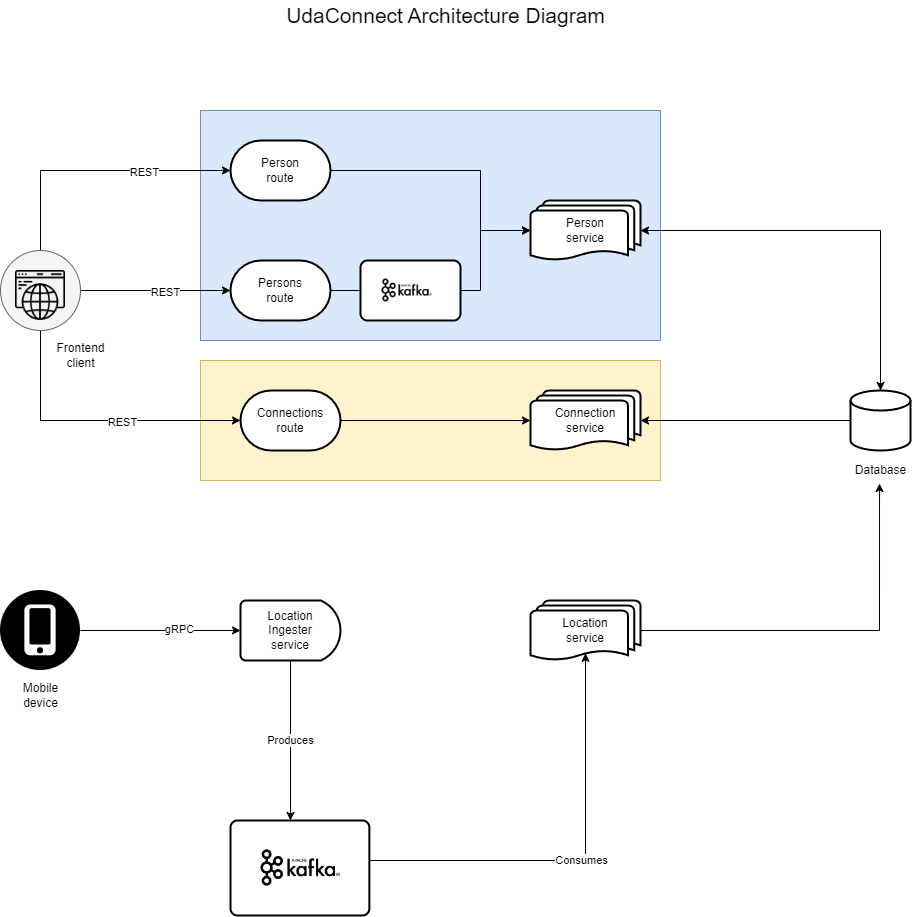
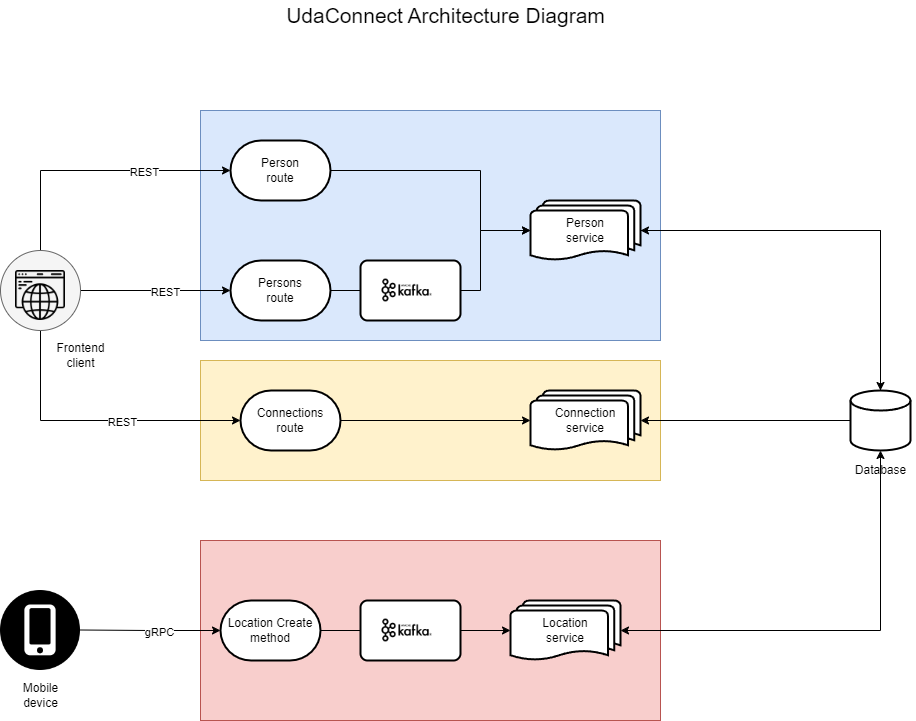
Project is ready for submitted.

diff --git a/modules/locations_api/location_pb2_grpc.py b/modules/locations_api/location_pb2_grpc.py
@@ -19,23 +19,12 @@ class LocationServiceStub(object):
                 request_serializer=location__pb2.LocationMessage.SerializeToString,
                 response_deserializer=location__pb2.LocationMessage.FromString,
                 )
-        self.Get = channel.unary_unary(
-                '/LocationService/Get',
-                request_serializer=location__pb2.Empty.SerializeToString,
-                response_deserializer=location__pb2.LocationMessageList.FromString,
-                )
 
 
 class LocationServiceServicer(object):
     """Missing associated documentation comment in .proto file."""
 
     def Create(self, request, context):
-        """Missing associated documentation comment in .proto file."""
-        context.set_code(grpc.StatusCode.UNIMPLEMENTED)
-        context.set_details('Method not implemented!')
-        raise NotImplementedError('Method not implemented!')
-
-    def Get(self, request, context):
         """Missing associated documentation comment in .proto file."""
         context.set_code(grpc.StatusCode.UNIMPLEMENTED)
         context.set_details('Method not implemented!')
@@ -48,11 +37,6 @@ def add_LocationServiceServicer_to_server(servicer, server):
                     servicer.Create,
                     request_deserializer=location__pb2.LocationMessage.FromString,
                     response_serializer=location__pb2.LocationMessage.SerializeToString,
-            ),
-            'Get': grpc.unary_unary_rpc_method_handler(
-                    servicer.Get,
-                    request_deserializer=location__pb2.Empty.FromString,
-                    response_serializer=location__pb2.LocationMessageList.SerializeToString,
             ),
     }
     generic_handler = grpc.method_handlers_generic_handler(
@@ -78,22 +62,5 @@ class LocationService(object):
         return grpc.experimental.unary_unary(request, target, '/LocationService/Create',
             location__pb2.LocationMessage.SerializeToString,
             location__pb2.LocationMessage.FromString,
-            options, channel_credentials,
-            insecure, call_credentials, compression, wait_for_ready, timeout, metadata)
-
-    @staticmethod
-    def Get(request,
-            target,
-            options=(),
-            channel_credentials=None,
-            call_credentials=None,
-            insecure=False,
-            compression=None,
-            wait_for_ready=None,
-            timeout=None,
-            metadata=None):
-        return grpc.experimental.unary_unary(request, target, '/LocationService/Get',
-            location__pb2.Empty.SerializeToString,
-            location__pb2.LocationMessageList.FromString,
             options, channel_credentials,
             insecure, call_credentials, compression, wait_for_ready, timeout, metadata)

diff --git a/modules/locations_api/location_pb2.py b/modules/locations_api/location_pb2.py
@@ -13,19 +13,17 @@ _sym_db = _symbol_database.Default()
 
 
 
-DESCRIPTOR = _descriptor_pool.Default().AddSerializedFile(b'\n\x0elocation.proto\"\x07\n\x05\x45mpty\"I\n\x0fLocationMessage\x12\x11\n\tperson_id\x18\x01 \x01(\x05\x12\x10\n\x08latitude\x18\x02 \x01(\x01\x12\x11\n\tlongitude\x18\x03 \x01(\x01\":\n\x13LocationMessageList\x12#\n\tlocations\x18\x01 \x03(\x0b\x32\x10.LocationMessage2d\n\x0fLocationService\x12,\n\x06\x43reate\x12\x10.LocationMessage\x1a\x10.LocationMessage\x12#\n\x03Get\x12\x06.Empty\x1a\x14.LocationMessageListb\x06proto3')
+DESCRIPTOR = _descriptor_pool.Default().AddSerializedFile(b'\n\x0elocation.proto\"I\n\x0fLocationMessage\x12\x11\n\tperson_id\x18\x01 \x01(\x05\x12\x10\n\x08latitude\x18\x02 \x01(\t\x12\x11\n\tlongitude\x18\x03 \x01(\t\":\n\x13LocationMessageList\x12#\n\tlocations\x18\x01 \x03(\x0b\x32\x10.LocationMessage2?\n\x0fLocationService\x12,\n\x06\x43reate\x12\x10.LocationMessage\x1a\x10.LocationMessageb\x06proto3')
 
 _builder.BuildMessageAndEnumDescriptors(DESCRIPTOR, globals())
 _builder.BuildTopDescriptorsAndMessages(DESCRIPTOR, 'location_pb2', globals())
 if _descriptor._USE_C_DESCRIPTORS == False:
 
   DESCRIPTOR._options = None
-  _EMPTY._serialized_start=18
-  _EMPTY._serialized_end=25
-  _LOCATIONMESSAGE._serialized_start=27
-  _LOCATIONMESSAGE._serialized_end=100
-  _LOCATIONMESSAGELIST._serialized_start=102
-  _LOCATIONMESSAGELIST._serialized_end=160
-  _LOCATIONSERVICE._serialized_start=162
-  _LOCATIONSERVICE._serialized_end=262
+  _LOCATIONMESSAGE._serialized_start=18
+  _LOCATIONMESSAGE._serialized_end=91
+  _LOCATIONMESSAGELIST._serialized_start=93
+  _LOCATIONMESSAGELIST._serialized_end=151
+  _LOCATIONSERVICE._serialized_start=153
+  _LOCATIONSERVICE._serialized_end=216
 # @@protoc_insertion_point(module_scope)

diff --git a/modules/locations_api/app/udaconnect/services.py b/modules/locations_api/app/udaconnect/services.py
@@ -36,7 +36,6 @@ class LocationService:
         new_location.person_id = location["person_id"]
         new_location.coordinate = ST_Point(
             location["latitude"], location["longitude"])
-        new_location.creation_time = datetime.now().strftime("%Y-%m-%d %H:%M:%S")
         db.session.add(new_location)
         db.session.commit()
 

diff --git a/modules/locations_api/main.py b/modules/locations_api/main.py
@@ -14,9 +14,6 @@ KAFKA_SERVER = 'kafka-service:9092'
 
 
 class LocationServicer(location_pb2_grpc.LocationServiceServicer):
-    def Get(self, request, context):
-        return
-
     def Create(self, request, context):
         from app.udaconnect.services import LocationService
         location = {

diff --git a/modules/locations_api/app/udaconnect/schemas.py b/modules/locations_api/app/udaconnect/schemas.py
@@ -7,7 +7,6 @@ class LocationSchema(Schema):
     person_id = fields.Integer()
     longitude = fields.String(attribute="longitude")
     latitude = fields.String(attribute="latitude")
-    creation_time = fields.DateTime()
 
     class Meta:
         model = Location

diff --git a/README.md b/README.md
@@ -88,7 +88,7 @@ Afterwards, you can test that `kubectl` works by running a command like `kubectl
 10. `sh scripts/run_db_command.sh <POD_NAME>` - Seed your database against the `postgres` pod. (`kubectl get pods` will give you the `POD_NAME`)
 11. Create the kafka topics as follows
 ```
-master:~ # kubectl exec -ti kafka-deployment-7985656cd5-djl2n -- /bin/bash
+master:~ # kubectl exec -ti <POD_NAME> -- /bin/bash
 [appuser@kafka-deployment-7985656cd5-djl2n ~]$ kafka-topics --create --bootstrap-server localhost:29092 --replication-factor 1 --partitions 1 --topic persons-topic
 Created topic persons-topic.
 [appuser@kafka-deployment-7985656cd5-djl2n ~]$ kafka-topics --create --bootstrap-server localhost:29092 --replication-factor 1 --partitions 1 --topic locations-topic
